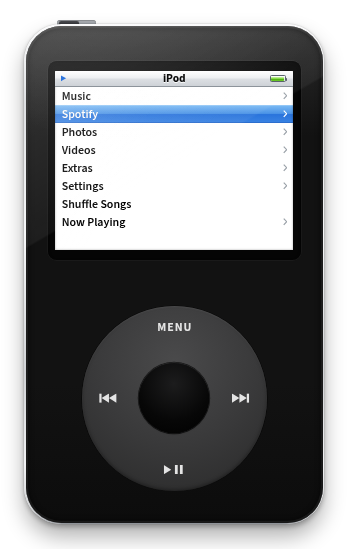
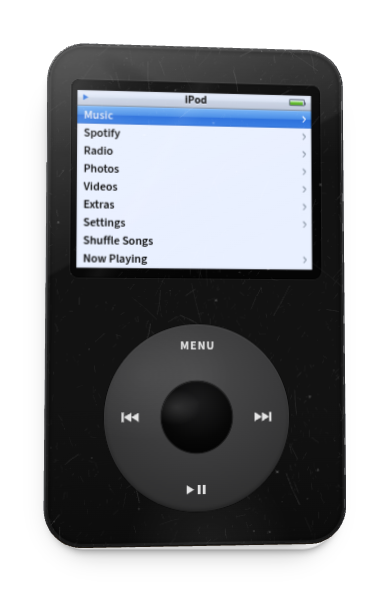
Release 2.0.0: tests in CI, update feed, docs
- CI runs the unit tests with lint, and a new end-to-end job drives the
  real app (tour, media, screens, motion, Spotify) under xvfb with
  software WebGL, keeping screenshots and logs as artifacts. The Windows
  build waits for both.
- npm run e2e generates a test library (scripts/make-test-library.sh:
  tagged MP3s with artwork, photos, a video) and runs every scenario with a
  fresh profile, failing on any error. Scenarios exit non-zero on failure,
  and window screenshots retry.
- Software updates: electron-builder publishes to GitHub Releases, and
  releases carry latest.yml and the blockmap so installed copies can find
  and apply updates.
- Version 2.0.0, a CHANGELOG, an up-to-date README (features, tests,
  layout, controls) and new screenshots of the 3D iPod.

Claude-Session: https://claude.ai/code/session_01VbVYrk3sCTAkd2gXMp4MBf

diff --git a/scripts/e2e.js b/scripts/e2e.js
@@ -33,9 +33,23 @@ module.exports = async ({ app, win }) => {
   });
 
   const shot = async (name, w = win) => {
-    const img = await w.webContents.capturePage();
-    fs.writeFileSync(path.join(out, `${name}.png`), img.toPNG());
-    console.log('shot', name);
+    // Grabbing a window's pixels occasionally fails on software GPUs; retry,
+    // and for secondary windows (the Spotify setup) just warn.
+    for (let attempt = 1; ; attempt++) {
+      try {
+        const img = await w.webContents.capturePage();
+        fs.writeFileSync(path.join(out, `${name}.png`), img.toPNG());
+        console.log('shot', name);
+        return;
+      } catch (err) {
+        if (attempt < 3) {
+          await wait(400);
+          continue;
+        }
+        if (w !== win) return console.log(`(couldn't capture ${name}: ${err.message})`);
+        throw err;
+      }
+    }
   };
   const press = async (button, hold = 60) => {
     await js(`__ipod.device.emit('down', { button: '${button}' })`);
@@ -74,7 +88,8 @@ module.exports = async ({ app, win }) => {
     }
     fs.writeFileSync(path.join(out, 'errors.json'), JSON.stringify(errors, null, 2));
     console.log(`E2E done, ${errors.length} renderer errors`);
-    app.quit();
+    for (const e of errors) console.log('  error:', e);
+    app.exit(errors.length ? 1 : 0);
     return;
   }
 
@@ -208,7 +223,8 @@ module.exports = async ({ app, win }) => {
   }
   fs.writeFileSync(path.join(out, 'errors.json'), JSON.stringify(errors, null, 2));
   console.log(`E2E done, ${errors.length} renderer errors`);
-  app.quit();
+  for (const e of errors) console.log('  error:', e);
+  app.exit(errors.length ? 1 : 0);
 };
 
 /** Spotify flows against a mocked Web API (February 2026 response shapes). */

diff --git a/README.md b/README.md
@@ -1,6 +1,6 @@
 # iPod for Desktop
 
-A free-floating iPod (5th generation) that lives on your Windows desktop. There's no window frame, just the iPod. Drag it anywhere, spin the click wheel with your mouse, and play your music or your Spotify library.
+A free-floating iPod (5th generation) that lives on your Windows desktop. There's no window frame, just the iPod, and it's a real 3D object that turns toward your mouse. Drag it anywhere, spin the click wheel, and play your music, internet radio, podcasts or your Spotify library. See what's new in the [changelog](CHANGELOG.md).
 
 <p align="center">
   <img src="docs/white-nowplaying.png" width="300" alt="White iPod showing Now Playing" />
@@ -25,28 +25,40 @@ A free-floating iPod (5th generation) that lives on your Windows desktop. There'
 **It feels like the real thing**
 - A frameless, transparent window shaped like the iPod. Clicks pass through the empty space around it, and you drag it by its body.
 - The click wheel works like the real one: drag around it to scroll, click MENU, ⏮, ⏭ or ▶❚❚, and press the centre button. It makes the clicker sound, and the part you press visibly sinks.
-- Long presses behave like an iPod: hold ▶❚❚ to turn it off, hold MENU to jump to the main menu, hold ⏮/⏭ to rewind or fast-forward, and hold the centre button on a song to add it to On-The-Go.
-- A working hold switch on the top edge, with the orange stripe and a lock on screen.
+- Long presses behave like an iPod: hold ▶❚❚ to turn it off, hold MENU to jump to the main menu, hold ⏮/⏭ to rewind or fast-forward, and hold the centre button for a song's options.
+- A working hold switch on the top edge, with the orange flag and a lock on screen.
 - The backlight turns off after the timeout. Screens slide in and out, long titles scroll, and spinning fast through a long list shows a big letter.
-- The 5th generation screen: full-width menus with the blue highlight, and Now Playing with "6 of 15", album art and the glossy progress bar.
-- White or Black, in four sizes.
+- The 5th generation screen, with its cool white LCD: full-width menus with the blue highlight, and Now Playing with "6 of 15", album art and the glossy progress bar.
+- White, Black, U2 Special Edition or your own colours (there's a colour editor), in four sizes, with an engraving on the back.
 
 **Music**
-- Local library: Playlists (including `.m3u`), Artists, Albums, Compilations, Songs, Podcasts, Genres, Composers, Audiobooks and Search.
+- Local library: Cover Flow, Playlists (your own, and `.m3u` files), Artists, Albums, Compilations, Songs, Podcasts, Genres, Composers, Audiobooks and Search.
 - Smart playlists: Recently Added, Top 25 Most Played, Recently Played and My Top Rated, plus On-The-Go.
-- Now Playing: turn the wheel for volume. Click the centre button to cycle through the scrubber, the star rating and lyrics (including synced `.lrc` lyrics).
-- Shuffle (Songs/Albums), Repeat (One/All), the 24 classic EQ presets, Sound Check, Volume Limit and audiobook speed.
-- Remembers where you left off, counts plays, and works with the Windows media keys and media overlay.
+- Up Next: Play Next or Add to Up Next from any song, album or playlist. Hold the centre button on a song for more: add to a playlist, browse its album or artist, Song Info.
+- Now Playing: turn the wheel for volume. Click the centre button to cycle through the scrubber, the star rating, lyrics (time-synced from LRCLIB, or from the file) and the visualizer.
+- Gapless playback or crossfade, Shuffle (Songs/Albums), Repeat (One/All), the classic EQ presets and a custom EQ, Sound Check, Volume Limit, and speeds for audiobooks and podcasts (which also remember where you were).
+- Get Album Artwork finds missing covers online.
+- Works with the Windows media keys and media overlay.
+
+**Radio and podcasts**
+- Internet radio: top and most-loved stations, stations near you, genres, countries and search (from radio-browser.info), with the song that's playing and your favourites.
+- Podcasts: top charts, search, subscribe by address, import and export OPML, download episodes, and pick up where you left off.
 
 **Spotify**
 - Playlists, Liked Songs, saved Albums, followed Artists, Podcasts, Recently Played, Search and Devices.
-- Like songs from Now Playing.
+- Like songs from Now Playing, add them to the queue or to your playlists.
 - Plays through the Spotify app on your PC, or any Spotify Connect speaker, with the iPod as the remote. If Spotify isn't open, the iPod opens it for you.
 
 **Extras**
-- Games: Brick, Parachute and Music Quiz.
-- Clocks (world clocks with a day/night analog face), Alarms with snooze, a Sleep Timer, Stopwatch with laps, Screen Lock (4-digit combination), Calendar and Notes.
-- Photos (thumbnail grid, viewer, Ken Burns slideshow) and Videos.
+- Games: Brick, Parachute, Music Quiz and Solitaire.
+- Clocks (world clocks with a day/night analog face), Alarms with snooze, a Sleep Timer, Stopwatch with laps, Screen Lock (4-digit combination), Contacts, Calendars and Notes.
+- Photos (thumbnail grid, viewer, Ken Burns slideshow) and Videos (Movies, Music Videos, TV Shows, with subtitles).
+
+**On your desktop**
+- A tray icon and a right-click menu (colour, size, motion, always on top, hide, quit…), taskbar play/pause buttons and a jump list.
+- Global shortcuts: Ctrl+Alt+Space play/pause, Ctrl+Alt+← / → previous/next, Ctrl+Alt+↑ / ↓ volume, Ctrl+Alt+I show or hide.
+- Open music files with the iPod, or drop files and folders on it.
+- Snaps to screen edges, optional song notifications, starts with Windows if you like, and updates itself (installed version).
 
 ## Install
 
@@ -59,6 +71,13 @@ Windows SmartScreen may warn you because the app isn't code-signed. Click **More
 ```bash
 npm install
 npm start
+```
+
+Run the tests (the end-to-end ones need ffmpeg, and xvfb on Linux):
+
+```bash
+npm test
+npm run e2e
 ```
 
 Build the Windows installer and portable exe yourself (on Windows):
@@ -78,6 +97,7 @@ npm run dist
 | ⏮ ⏭ | ← → | Previous/Next (hold to rewind/fast-forward) |
 | Hold switch on the top edge | H | Lock the buttons |
 | Drag the case | | Move the iPod |
+| Double-click the case | | Flip it over to see the back |
 | Right-click | | Options: always on top, hide, quit… |
 
 The iPod also has a tray icon. Click it to show or hide the iPod.
@@ -110,11 +130,14 @@ src/main/        Electron main process: frameless window, tray, app:// file serv
 src/preload/     The safe bridge between the iPod UI and the main process
 src/renderer/    The iPod itself (no framework, plain ES modules)
   js/device.js     The physical iPod: case, click wheel and hold switch input
+  js/body3d.js     The 3D body (WebGL): shell, ports, materials
+  js/rig.js        The motion: pointer tilt, lift, sway, flip
   js/os.js         Navigation, backlight, sleep, hold, title bar
   js/views/        Every screen: menus, Now Playing, settings, extras, games
   js/player/       Local playback with EQ, the Spotify engine, queue/shuffle/repeat
   js/library/      Local library index and the Spotify Web API client
-scripts/         Icon generator and the development screenshot tour (scripts/e2e.js)
+scripts/         Icon generator, test library generator and the end-to-end tests (npm run e2e)
+test/            Unit tests (npm test)
 ```
 
 The device is data-driven (`src/renderer/js/models.js`), so more iPod models can be added later as device themes.

diff --git a/CHANGELOG.md b/CHANGELOG.md
@@ -1,0 +1,49 @@
+# Changelog
+
+## 2.0.0
+
+The iPod now lives on your desktop as a real 3D object, and gained radio, podcasts, lyrics, Cover Flow and much more.
+
+### It's a 3D object now
+- The body is a real 3D model rendered with WebGL: smooth rounded edges where the front plastic meets the steel shell, a headphone jack you can see into, a chrome hold slider that moves in its slot (and can be clicked), and a dock connector with its row of pins. The screen and click wheel stay sharp HTML on top, lined up to the pixel.
+- It turns toward your mouse pointer anywhere on screen, lifts and sways when you carry it, settles with a bounce, nudges when you press the wheel, floats gently when idle, and flips over with momentum (double-click).
+- Reflections slide across the glossy front, the screen glass (with a soft-box reflection when you tip it toward the light) and the chrome. The screen sits behind the glass with a little parallax.
+- A polished mirror or glossy black steel back reflecting a studio, with etched lettering, capacity, fine print and regulatory marks. Wear (Brand New, A Few Months, Well Loved) adds scratches, swirls, smudges and dust that break up the reflections.
+- Settings › Appearance: Motion (Follow Pointer, Only on Hover, Off), Motion Amount, Reflections, Wear, Back (Auto, Polished Steel, Black), Float When Idle, and Detail (High 3D, or Light). Light is also used automatically when WebGL isn't available.
+
+### Music
+- A new audio engine: gapless playback, crossfade (kept gapless within an album), a custom 10-band EQ, Sound Check, playback speed, and bookmarks for audiobooks and podcasts.
+- Up Next: Play Next and Add to Up Next from any song, album or playlist, and an Up Next screen.
+- Cover Flow.
+- Your own playlists: create, rename, add songs, export as `.m3u8`.
+- Song options (hold the centre button): Up Next, playlists, browse album or artist, Song Info, ratings.
+- Lyrics from LRCLIB, time-synced when available, plus embedded and `.lrc` lyrics.
+- Get Album Artwork finds missing covers online (iTunes, then MusicBrainz and the Cover Art Archive).
+- Search with a click-wheel text entry (or type and paste).
+
+### Radio and podcasts
+- Internet radio from radio-browser.info: Top Stations, Most Loved, Local Stations, Genres, Countries and Search, with the song title from the stream, favourites and recently played.
+- Podcasts: Top Podcasts, Search, Add by Address, OPML import and export, downloads, resume where you left off, and played/unplayed.
+
+### Spotify
+- Add to Queue, add to your Spotify playlists, the playing device in Now Playing, and Spotify results in Search.
+
+### Extras
+- Solitaire, Contacts (`.vcf`) and Calendars (`.ics`, with repeating events and birthdays).
+- Videos sorted into Movies, Music Videos, TV Shows and Video Podcasts, with subtitles and resume.
+- Colours: White, Black, U2 Special Edition and Custom (with a colour editor); engraving on the back; an optional wheel glow; startup and power-off animations.
+
+### Desktop
+- Taskbar thumbnail buttons, a jump list, global shortcuts (Ctrl+Alt+Space, ←, →, ↑, ↓, I), Open With and drag and drop of music files and folders, song notifications, snapping to screen edges, opacity, start with Windows, and software updates for the installed version.
+- The tray and right-click menu have colour, size and motion submenus.
+- Back up and restore your settings.
+
+### Under the hood
+- Library scanning in a separate process, with an incremental index, folder watching and an artwork cache. Songs on a drive that's unplugged are kept until it's back.
+- Every internet request goes through one network layer with timeouts and pacing. Addresses from feeds and streams can't reach your home network, even through redirects or DNS tricks.
+- Settings are saved even if you quit the moment after changing them.
+- Unit tests, and end-to-end tests that drive the real app (with the 3D body on a software renderer) in CI.
+
+## 1.0.0
+
+The first release: a frameless iPod 5th generation with a working click wheel, the iPod menus and Now Playing, your local music library, Spotify, games and extras.
